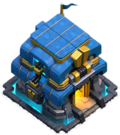
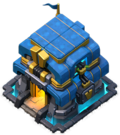
Added hub building (unfinished)

diff --git a/Battlefield Simulation/MyWorld.java b/Battlefield Simulation/MyWorld.java
@@ -23,35 +23,38 @@ public class MyWorld extends World
         GreenfootImage background = new GreenfootImage("background.jpeg");
         setBackground(background);
         
-        red = new TroopSpawner(false, 100, 125, 100, 100, 1);
-        blue = new TroopSpawner(true, 100, 125, 100, 100, 1);
+        // Hub spawn locations?
+        Hub redHub = new Hub(true, 125, 125, 5000, 200, 5);
+        Hub blueHub = new Hub(false, 125, 125, 5000, 200, 5);
         
-        redtower1 = new DefenseTower(false, 130, 130, 999, 100, 1);
-        redtower2 = new DefenseTower(false, 130, 130, 999, 100, 1);
-        bluetower1 = new DefenseTower(true, 130, 130, 999, 100, 1);
-        bluetower2 = new DefenseTower(true, 130, 130, 999, 100, 1);
+        addObject(redHub, getWidth() / 14, getHeight() / 2);
+        addObject(blueHub, getWidth() / 14 * 13, getHeight() / 2);
         
-        addObject(red, getWidth() / 8 * 7, getHeight()/2);
-        addObject(blue, getWidth() / 8, getHeight()/2);
+        TroopSpawner redSpawn1 = new TroopSpawner(true, 100, 110, 500, 100, 4);
+        TroopSpawner redSpawn2 = new TroopSpawner(true, 100, 110, 500, 100, 4);
         
-        addObject(redtower1, getWidth() / 4 * 3, getHeight()/2-100);
-        addObject(redtower2, getWidth() / 4 * 3, getHeight()/2+100);
+        addObject(redSpawn1, getWidth() / 9, getHeight() / 4 - 50);
+        addObject(redSpawn2, getWidth() / 9, getHeight() / 4 * 3 + 50);
         
-        addObject(bluetower1, getWidth() / 4, getHeight()/2-100);
-        addObject(bluetower2, getWidth() / 4, getHeight()/2+100);
+        TroopSpawner blueSpawn1 = new TroopSpawner(false, 100, 110, 500, 100, 4);
+        TroopSpawner blueSpawn2 = new TroopSpawner(false, 100, 110, 500, 100, 4);
         
-        addObject(new Infantry(true), 0, getHeight()/2);
-        //addObject(new Infantry(true), 100, getHeight()/2 +100);
-        addObject(new Infantry(false), getWidth() , getHeight()/2);
+        addObject(blueSpawn1, getWidth() / 9 * 8, getHeight() / 4 - 50);
+        addObject(blueSpawn2, getWidth() / 9 * 8, getHeight() / 4 * 3 + 50);
         
-        addObject(new Ninja(true), 0, getHeight()/2+20);
-        addObject(new Ninja(false), getWidth() , getHeight()/2-20);
+        redtower1 = new DefenseTower(true, 130, 130, 999, 100, 1);
+        redtower2 = new DefenseTower(true, 130, 130, 999, 100, 1);
+        bluetower1 = new DefenseTower(false, 130, 130, 999, 100, 1);
+        bluetower2 = new DefenseTower(false, 130, 130, 999, 100, 1);
         
-        addObject(new Medic(true), 0, getHeight()/2+20);
-        addObject(new Medic(false), getWidth() , getHeight()/2-20);
- 
-        //addObject(new Artillery(true, 65, 65, 1000, 45, 400), getWidth() / 4, getHeight() - 100);
-        //addObject(new Artillery(false, 65, 65, 1000, 45, 200), getWidth() / 2, getHeight() / 2);
+        addObject(bluetower1, getWidth() / 4 * 3, getHeight()/2-130);
+        addObject(bluetower2, getWidth() / 4 * 3, getHeight()/2+130);
+        
+        addObject(redtower1, getWidth() / 4, getHeight()/2-130);
+        addObject(redtower2, getWidth() / 4, getHeight()/2+130);
+        
+        
+        
     }
     
 }

diff --git a/Battlefield Simulation/Hub.java b/Battlefield Simulation/Hub.java
@@ -1,4 +1,5 @@
 import greenfoot.*;  // (World, Actor, GreenfootImage, Greenfoot and MouseInfo)
+import java.util.*;
 
 /**
  * Write a description of class Hub here.
@@ -11,10 +12,25 @@ public class Hub extends Building
     private GreenfootImage blueHubImg = new GreenfootImage("blueHubImage.png");
     private GreenfootImage redHubImg = new GreenfootImage("redHubImage.png");
     
+    // Building spawn delay
+    private int spawnDelay;
+    
+    // Spawn variable used with spawn delay
+    private int spawn = 0;
+    
+    // Used for RNG
+    private Random random = new Random();
+    
     public Hub(boolean isRed, int width, int height, int maxHP, int maxCharge, int delay)
     {
-        statBar = new OZDWStatBar(width, height / 6, 5, maxHP, maxHP, 0, maxCharge);
-        
+        statBar = new OZDWStatBar(width - 50, height / 6, 5, maxHP, maxHP, 0, maxCharge);
+        this.width = width;
+        this.height = height;
+        this.maxHP = maxHP;
+        this.currHP = maxHP;
+        this.currCharge = 0;
+        this.maxCharge = maxCharge;
+        spawnDelay = delay;
         if (isRed)
         {
             redHubImg.scale(width, height);
@@ -29,6 +45,25 @@ public class Hub extends Building
     
     public void act() 
     {
-        // Add your action code here.
+        if (exploding)
+        {
+            doExplosion();
+            return;
+        }
+        
+        if (!statBarDisplayed)
+        {
+            statBarDisplayed = true;
+            summonStatBar(true);
+        }
+        
+        currCharge += spawn / spawnDelay;
+        if (spawn == spawnDelay) {spawn = 0;}
+        else {spawn++;}
+        if (currCharge == maxCharge) {
+            //spawnTroop();
+            currCharge = 0;
+        }
+        statBar.update(false, currCharge);
     }    
 }

diff --git a/Battlefield Simulation/TroopSpawner.java b/Battlefield Simulation/TroopSpawner.java
@@ -9,7 +9,8 @@ import java.util.*;
  */
 public class TroopSpawner extends Building
 {
-    private GreenfootImage img = new GreenfootImage("barracks.png");
+    private GreenfootImage redImg = new GreenfootImage("barracks.png");
+    private GreenfootImage blueImg = new GreenfootImage("blueBarracks.png");
     
     // Troop spawn delay
     private int spawnDelay;
@@ -33,8 +34,17 @@ public class TroopSpawner extends Building
     public TroopSpawner(boolean isRed, int width, int height, int maxHP, int maxCharge, int delay)
     {
         statBar = new OZDWStatBar(width, height / 6, 5, maxHP, maxHP, 0, maxCharge);
-        img.scale(width, height - 10);
-        setImage(img);
+        
+        if (isRed)
+        {
+            redImg.scale(width, height);
+            setImage(redImg);
+        }
+        else
+        {
+            blueImg.scale(width, height);
+            setImage(blueImg);
+        }
         
         this.isRed = isRed;
         this.width = width;

diff --git a/Battlefield Simulation/DefenseTower.java b/Battlefield Simulation/DefenseTower.java
@@ -90,7 +90,7 @@ public class DefenseTower extends Building
          
             for(Troops t : troopList){
                 
-                if(t.getTeam() != getTeam()){
+                if(t.getTeam() != getTeam() && t instanceof Troops){
                     if(isRed) turnTowards(t.getX()-25, t.getY()+40);
                     else turnTowards(t.getX()+25, t.getY()+40);
                     enemyInRange = true;
